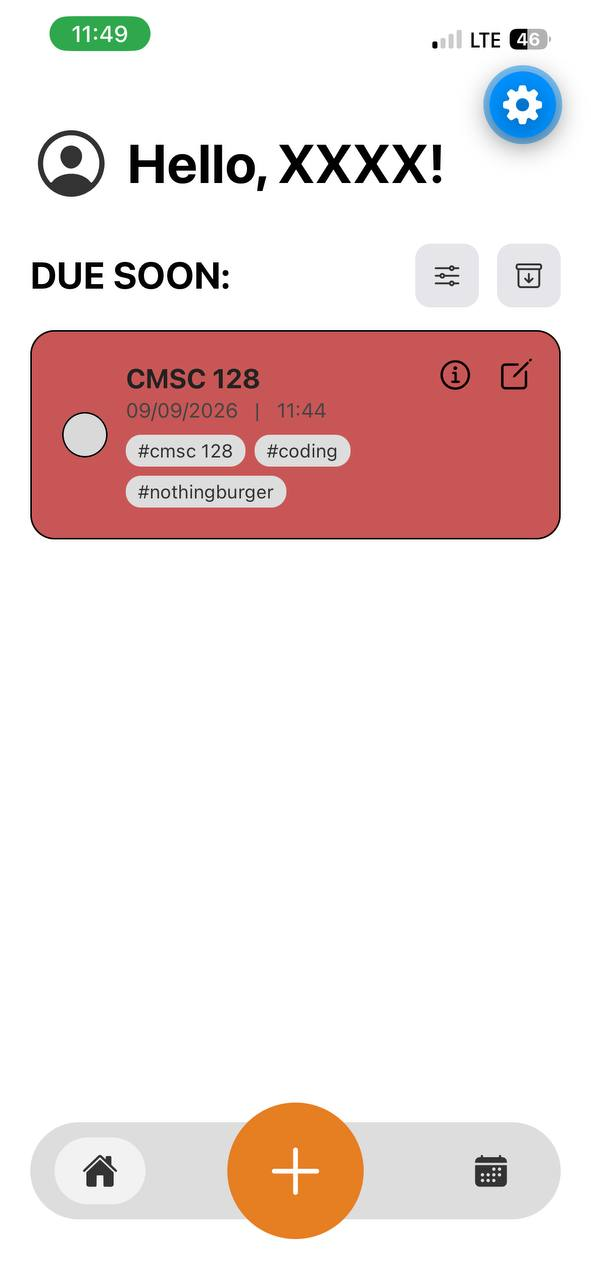
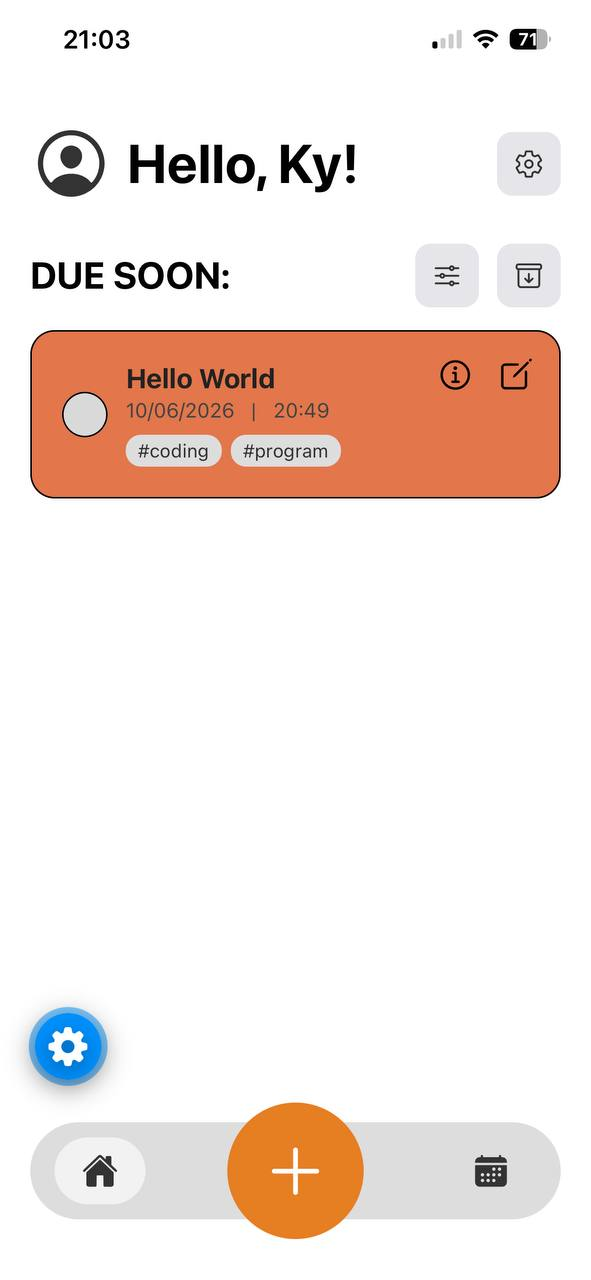
feat: update readme to include user authentication

diff --git a/README.md b/README.md
@@ -1,12 +1,14 @@
 # Task Manager
 
-A cross-platform task management app built for CMSC 128. The app allows users to create, view, update, complete, filter, and delete tasks.
+A cross-platform task management app built for CMSC 128. Users create an account or sign in, then create, view, update, complete, filter, sort, and delete their tasks. Each task is associated with the signed-in Firebase user.
 
 ## Tech stack
 
 - **Frontend/UI library:** React Native (React) with Expo SDK 57
 - **Navigation:** Expo Router
-- **Backend/database:** Firebase Cloud Firestore
+- **Backend/database:** Firebase client SDK and Cloud Firestore; there is no separate application server
+- **Authentication:** Firebase Authentication with email and password
+- **Native session persistence:** Firebase Auth persistence backed by AsyncStorage
 - **Programming language:** JavaScript
 - **Icons:** Expo Vector Icons (Ionicons)
 
@@ -16,8 +18,14 @@ React Native and Expo allow the app to run on Android, iOS, and the web from one
 
 Cloud Firestore was chosen because it provides a hosted NoSQL database with a straightforward JavaScript SDK. It works well for task records, supports real-time-ready document operations, and avoids requiring a separate backend server for this project.
 
+Firebase Authentication handles account credentials and auth state. The app uses the Firebase JavaScript SDK directly from the React Native client; it does not expose a custom REST API.
+
 ## Features
 
+- Create an account with a display name, email, and password; log in and log out
+- Recover a password through a Firebase password-reset email
+- Update the profile display name, request an email change with verification, and change the password after reauthentication
+- Keep native sign-in state across app launches and route signed-out users to the login screens
 - Create tasks with a title, details, due date/time, priority, and tags
 - View tasks due today
 - View finished tasks
@@ -35,7 +43,7 @@ Install the following before running the project:
 
 - Node.js and npm
 - Expo-compatible device or emulator, or a web browser
-- A Firebase project with Cloud Firestore enabled
+- A Firebase project with Email/Password Authentication and Cloud Firestore enabled
 
 ## Local setup
 
@@ -63,7 +71,9 @@ Install the following before running the project:
    EXPO_PUBLIC_FIREBASE_APP_ID=your_app_id
    ```
 
-4. Make sure Cloud Firestore is enabled in the Firebase console. The app stores task documents in the `tasks` collection.
+4. In the Firebase console, enable **Authentication > Sign-in method > Email/Password** and create a **Cloud Firestore** database. The app stores task documents in the `tasks` collection. No database migration or seed data is required; task documents are created when users add tasks.
+
+5. Configure Firestore Security Rules to authorize access only to the authenticated owner of each task. The app stores the Firebase user's UID in each task's `userId` field and filters task lists by that UID, but client-side filtering is not a security boundary. This repository does not include deployable Firestore rules.
 
 ## Run the app
 
@@ -83,12 +93,32 @@ npx expo start --ios
 
 For Android or iOS, the corresponding emulator or development device must be available.
 
+## Authentication and sessions
+
+Authentication is provided by Firebase Authentication's email/password provider. Sign-up creates a Firebase user and sets the user's display name. Login signs in with the email and password. The app listens for Firebase auth-state changes in `AuthContext`; the root layout waits for the initial auth check and then redirects signed-out users to `/login` and signed-in users away from the public login, sign-up, and password-reset screens.
+
+On native platforms, Firebase Auth persistence is initialized with React Native AsyncStorage, so the Firebase session can be restored after restarting the app. On web, the app uses Firebase's standard web Auth initialization. Logging out calls Firebase `signOut` and ends the current session.
+
+Password recovery is email-based: the user enters their email on **Forgot Password**, and Firebase sends a password-reset link using `sendPasswordResetEmail`. The app does not store or handle password-reset tokens itself. The profile screen also supports changing a password after reauthentication with the current password, and requesting an email change after reauthentication; Firebase sends a verification link, and the email is not changed until it is confirmed.
+
+The authentication service in [`backend/services/authService.js`](./backend/services/authService.js) exposes these equivalent operations (there are no HTTP endpoints):
+
+```js
+await registerUser({ email, password, displayName });
+await loginUser({ email, password });
+await requestPasswordReset(email);
+await changeUserPassword({ currentPassword, newPassword });
+await requestEmailChange({ currentPassword, newEmail });
+await logoutUser();
+```
+
 ## Firestore data model
 
 Tasks are stored in the `tasks` collection. A task document has the following shape:
 
 ```js
 {
+  userId: "firebase-auth-uid",
   title: "Submit lab report",
   details: "Finish the CRUD documentation",
   dueDate: Timestamp,
@@ -169,9 +199,26 @@ This calls Firestore `deleteDoc`. The edit screen first returns to the task list
 
 ## Screenshots
 
+#### Login Screen
+
+![Login screenshot](assets/screenshots-app/login.jpg)
+
+#### Sign Up Screen
+
+![Sign Up screenshot](assets/screenshots-app/signup.jpg)
+
+#### Forgot Password Screen
+
+![Forgot Password screenshot](assets/screenshots-app/resetpassword.jpg)
+
 #### Home Screen
 
 ![Task list screenshot](assets/screenshots-app/homescreen.jpg)
+
+#### Profile Screen
+
+
+![Profile screenshot](assets/screenshots-app/profile.jpg)
 
 #### Add Task Screen
 
